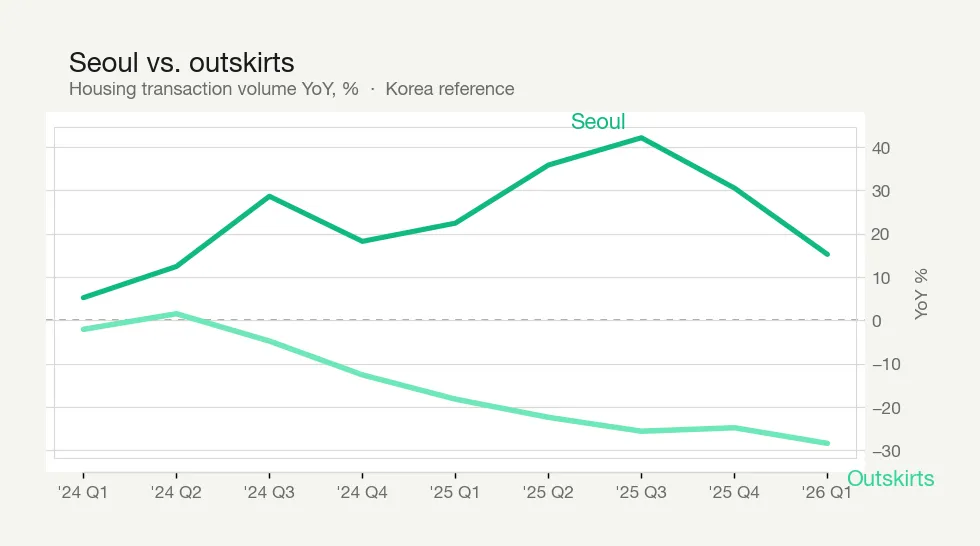
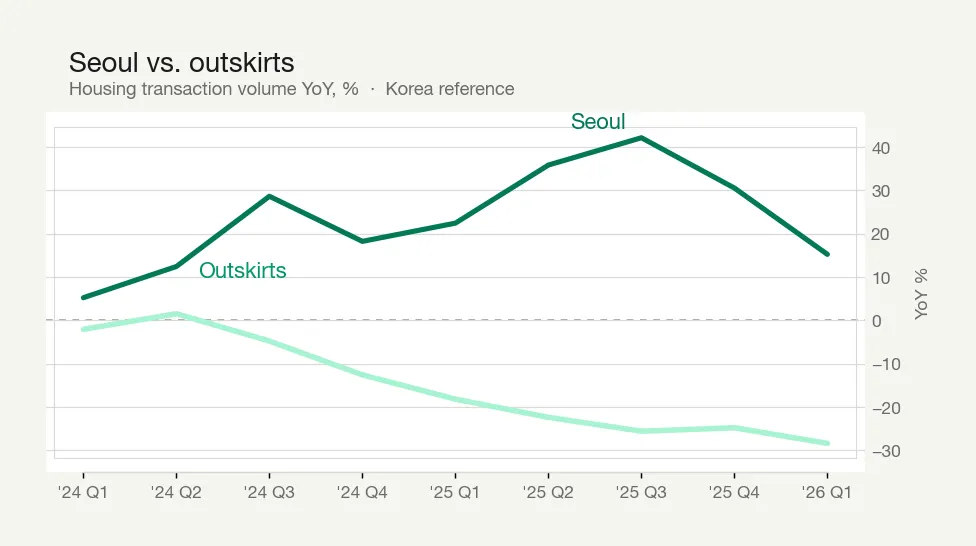
style(blog): darker Seoul green, paler outskirts, label in gap
Deepen Seoul line; lighten Outskirts for contrast. Move Outskirts label
to early-series whitespace (same offset pattern as Seoul peak label).

diff --git a/scripts/charts/generate-macro-barrier-chart.py b/scripts/charts/generate-macro-barrier-chart.py
@@ -19,9 +19,10 @@ ROOT = Path(__file__).resolve().parents[2]
 CSV_PATH = ROOT / "public/data/macro-barrier-chart-source.csv"
 OUT_WEBP = ROOT / "public/assets/images/blog/macro-barrier-seoul-outskirts-yoy.webp"
 
-# Economist layout + GSF greens (strong vs light for contrast)
-BRAND_ACCENT = "#10b981"  # emerald-500 — primary series
-BRAND_ACCENT_LIGHT = "#6ee7b7"  # emerald-300 — lighter second series
+# Economist layout + GSF greens (dark primary vs pale second series)
+BRAND_ACCENT = "#047857"  # emerald-700 — Seoul (deeper green)
+BRAND_ACCENT_LIGHT = "#a7f3d0"  # emerald-200 — Outskirts (lighter)
+OUTSKIRTS_LABEL_COLOR = "#059669"  # emerald-600 — label legibility on pale line
 SEOUL_COLOR = BRAND_ACCENT
 OUTSKIRTS_COLOR = BRAND_ACCENT_LIGHT
 TEXT_DARK = "#1A1A1A"
@@ -62,17 +63,17 @@ def add_direct_labels(ax, seoul: list[float], outskirts: list[float]) -> None:
         ha="left",
         va="bottom",
     )
-    # Outskirts — lower right near trough
+    # Outskirts — early gap between series (mirror Seoul: anchor on line, label in whitespace)
     ax.annotate(
         "Outskirts",
-        xy=(n, outskirts[-1]),
-        xytext=(10, -14),
+        xy=(1, outskirts[1]),
+        xytext=(12, 18),
         textcoords="offset points",
-        color="#34d399",  # slightly deeper than line for label legibility
+        color=OUTSKIRTS_LABEL_COLOR,
         fontsize=12,
         fontweight="bold",
         ha="left",
-        va="top",
+        va="bottom",
     )
 
 

diff --git a/scripts/charts/README.md b/scripts/charts/README.md
@@ -20,6 +20,6 @@ python3 scripts/charts/generate-macro-barrier-chart.py
 
 Output: `public/assets/images/blog/macro-barrier-seoul-outskirts-yoy.webp`
 
-**Style:** Economist-inspired layout — GSF green accent bar, Y-axis on the right, **direct labels** near peak/trough (`Seoul` / `Outskirts`). Seoul `#10b981`, Outskirts lighter `#6ee7b7`. Details stay in MDX `<figcaption>`.
+**Style:** Economist-inspired layout — GSF green accent bar, Y-axis on the right, **direct labels** in whitespace (`Seoul` at peak, `Outskirts` at early gap). Seoul `#047857`, Outskirts `#a7f3d0`. Details stay in MDX `<figcaption>`.
 
 Posts reference it via `<figure class="supplemental-chart">` in MDX (captions are per language in the post).
